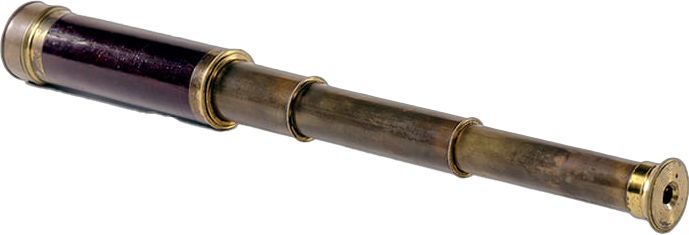
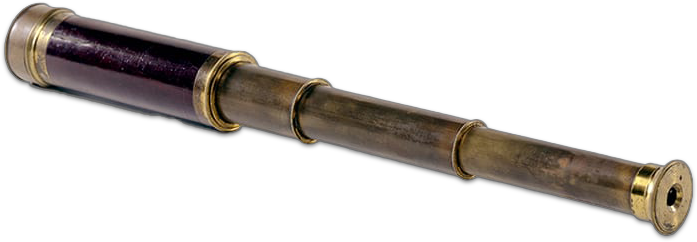
deploy: a5d00cb641258e15a83822a70ea77fb0c0fde9fc

diff --git a/styles/main.css b/styles/main.css
@@ -4,13 +4,14 @@
   --thoreau-blue: #77bece;
   --thoreau-rgba-blue: rgba(119, 190, 206, 1);
   --border-gray: gray;
+  --border-light-gray: #ddd;
 }
 
 /* font sizes */
 :root {
   --content: 2rem;
-  --artifact-title: 4vmin;
-  --artifact-description: 2vmin;
+  --artifact-title: 3.2vmin;
+  --artifact-description: 1.95vmin;
   --explore: 2.6vmin;
   --explore-button: 2vmin;
   --explore-content: 2.6vmin;
@@ -21,8 +22,8 @@
 }
 @media (max-width: 576px), (max-height: 576px) {
   :root {
-    --artifact-title: 4.5vmin;
-    --artifact-description: 2.8vmin;
+    --artifact-title: 5vmin;
+    --artifact-description: 3vmin;
     --explore: 3.4vmin;
     --explore-button: 2.8vmin;
     --explore-content: 3.8vmin;
@@ -70,10 +71,23 @@ body {
   height: 100%;
 }
 .content .main .left img {
-  width: 16%;
+  width: 8vmax;
+  height: 8vmax;
+  padding: 0.7vmax;
+  border: 1px solid var(--border-light-gray);
+  border-radius: 4vmax;
+}
+@media (max-height: 576px), (max-width: 576px) {
+  .content .main .left img {
+    width: 6vmax;
+    height: 6vmax;
+    padding: 0.6vmax;
+    border: 1px solid var(--border-light-gray);
+    border-radius: 3vmax;
+  }
 }
 .content .main .left .title {
-  margin: 4vh 0;
+  margin: 6vh 0 4vh 0;
   font-family: "Libre Caslon Text", serif;
   font-size: var(--artifact-title);
   font-weight: 600;
@@ -81,14 +95,19 @@ body {
   line-height: 1.1em;
   text-transform: capitalize;
 }
+@media (max-height: 576px) {
+  .content .main .left .title {
+    margin: 4vh 0 4vh 0;
+  }
+}
 @media (max-width: 576px) {
   .content .main .left .title {
-    margin: 2vh 0;
+    margin: 3vh 0 3vh 0;
   }
 }
 .content .main .left hr {
-  display: none;
-  width: 25%;
+  display: block;
+  width: 50%;
 }
 @media (max-width: 576px), (max-height: 576px) {
   .content .main .left hr {
@@ -97,18 +116,19 @@ body {
 }
 .content .main .left .description {
   margin: 4vh 0;
-  width: 65%;
+  width: 100%;
   font-size: var(--artifact-description);
   line-height: 2em;
   color: black;
 }
-@media (max-width: 576px), (max-height: 576px) {
+@media (max-height: 576px) {
   .content .main .left .description {
-    width: 85%;
+    width: 95%;
   }
 }
 @media (max-width: 576px) {
   .content .main .left .description {
+    width: 65%;
     margin: 2vh 0;
   }
 }
@@ -117,10 +137,15 @@ body {
   display: flex;
   flex-direction: column;
   justify-content: flex-end;
+  background-image: url("../images/watercolor-background.png");
+  background-repeat: no-repeat;
+  background-position: center;
+  background-size: contain;
 }
 @media (max-width: 576px) {
   .content .main .right {
     justify-content: flex-start;
+    padding: 0;
   }
 }
 .content .main .right .image-container {
@@ -129,12 +154,10 @@ body {
   flex-direction: column;
   align-items: center;
   justify-content: space-around;
-  border: 1px solid var(--border-gray);
-  border-radius: 0.5vmin;
 }
 @media (max-width: 576px) {
   .content .main .right .image-container {
-    height: 45vh;
+    height: 50vh;
   }
 }
 @media (max-height: 576px) {
@@ -143,13 +166,20 @@ body {
   }
 }
 .content .main .right .image-container img {
-  margin: 20% 0;
-  width: 80%;
+  margin: 25% 0 15% 0;
+  width: 70%;
   align-self: center;
 }
-@media (max-width: 576px), (max-height: 576px) {
+@media (max-width: 576px) {
   .content .main .right .image-container img {
-    width: 90%;
+    width: 80%;
+    margin: 35% 0 20% 0;
+  }
+}
+@media (max-height: 576px) {
+  .content .main .right .image-container img {
+    width: 75%;
+    margin: 15% 0 5% 0;
   }
 }
 .content .main .right .image-container .explore {
@@ -397,12 +427,23 @@ html[data-scroll="5"] .explore-images:before {
   visibility: hidden;
   transition: opacity var(--explore-content-timing), visibility var(--explore-content-timing);
   opacity: 0;
-  max-width: 30vw;
+  max-width: 40vw;
   font-size: var(--explore-content);
+}
+.explore-content .absolute-content-container hr {
+  width: 30%;
+  border-top: 2px solid black;
+}
+.explore-content .absolute-content-container .author {
+  font-size: var(--explore-content);
+  text-transform: uppercase;
+}
+.explore-content .absolute-content-container .author.thoreau {
+  color: black;
 }
 .explore-content .absolute-content-container.spyglass-drawing {
   top: 120vh;
-  left: 60vw;
+  left: 50vw;
 }
 @media (max-height: 576px) {
   .explore-content .absolute-content-container.spyglass-drawing {
@@ -474,7 +515,7 @@ html[data-scroll="5"] .explore-images:before {
 }
 @media (max-height: 576px) {
   .explore-content .absolute-content-container.hawk {
-    top: 515vh;
+    top: 510vh;
   }
 }
 @media (max-width: 576px) {

diff --git a/explore-1.html b/explore-1.html
@@ -35,7 +35,7 @@
 <body>
   <div class="container-fluid explore-images">
     <div class=fixed-image-container>
-      <img src='images/spyglass.png' class='spyglass-photo'></img>
+      <img src='images/spyglass-rotated.png' class='spyglass-photo'></img>
     </div>
     <div class=fixed-image-container>
       <img src='images/spyglass-drawing.png' class='spyglass-drawing'></img>
@@ -62,27 +62,37 @@
     <div class='absolute-content-container spyglass-drawing'>
       Thoreau did have a curious mind and one that wanted to understand if you tugged at one thread
       of the universe, right, what else would come up with it…
+      <hr>
+      <div class='author'>Laura Walls, Historian</div>
     </div>
     <div class='absolute-content-container animals'>
       His experiments, his observations, his writings and even his later more scientific essays
       were all devoted to what we would call ecological science, the study of relationships,
       including most innovatively, the study of forest succession, right in the forests around
       his home in Concord.
+      <hr>
+      <div class='author'>Laura Walls, Historian</div>
     </div>
     <div class='absolute-content-container trees1'>
       His experiments, his observations, his writings and even his later more scientific essays
       were all devoted to what we would call ecological science, the study of relationships,
       including most innovatively, the study of forest succession, right in the forests
       around his home in Concord.
+      <hr>
+      <div class='author'>Laura Walls, Historian</div>
     </div>
 
     <div class='absolute-content-container trees2'>
       Some scientific work that is still looked at as fundamental to ecological studies today.
+      <hr>
+      <div class='author'>Laura Walls, Historian</div>
     </div>
 
     <div class='absolute-content-container hawk'>
       “Would it not be well to carry a spy glass in order to watch these shy birds-- such
       as ducks and hawks?”
+      <hr>
+      <div class='author thoreau'>Henry David Thoreau</div>
     </div>
 
   </div>

diff --git a/index.html b/index.html
@@ -29,28 +29,23 @@
 <body>
   <div id="content" class="container-fluid content">
     <div class="row main">
-      <div class="col-sm-5 left">
+      <div class="col-sm-3 left">
         <img src='images/pinetree.png'></img>
-        <div class="">
-          <div class='title'>
-            Thoreau's<br>
-            Spyglass
-          </div>
+        <div class='title'>
+          Thoreau's Spyglass
         </div>
         <hr>
-        <div class="">
-          <div class='description'>
-            Thoreau preferred to observe nature  with the naked eye,
-            not through a lens.  It was after much internal debate  that
-            he decided to spend $8.00
-            <br>--a rare splurge--<br>
-             on this spyglass in the spring of 1854.  He was delighted
-             with his enhanced ability  to study bird behaviors and
-            other natural phenomena.
-          </div>
+        <div class='description'>
+          Thoreau preferred to observe nature  with the naked eye,
+          not through a lens.  It was after much internal debate  that
+          he decided to spend $8.00
+          <br>--a rare splurge--<br>
+           on this spyglass in the spring of 1854.  He was dted
+           with his enhanced ability  to study bird behaviors and
+          other natural phenomena.
         </div>
       </div>
-      <div class="col-sm-7 right">
+      <div class="col-sm-9 right">
         <div class=image-container>
           <img src='images/spyglass.png'></img>
           <div class='explore'>

diff --git a/main.js b/main.js
@@ -30,7 +30,7 @@ const debounce = (fn) => {
 // so we can use it in our stylesheets
 const storeScroll = () => {
   document.documentElement.dataset.scroll = Math.floor(window.scrollY / window.innerHeight + 0.75);
-  document.documentElement.dataset.contentscroll = Math.floor(window.scrollY / window.innerHeight + 0.85);
+  document.documentElement.dataset.contentscroll = Math.floor(window.scrollY / window.innerHeight + 0.90);
 };
 
 // Listen for new scroll events, here we debounce our `storeScroll` function
